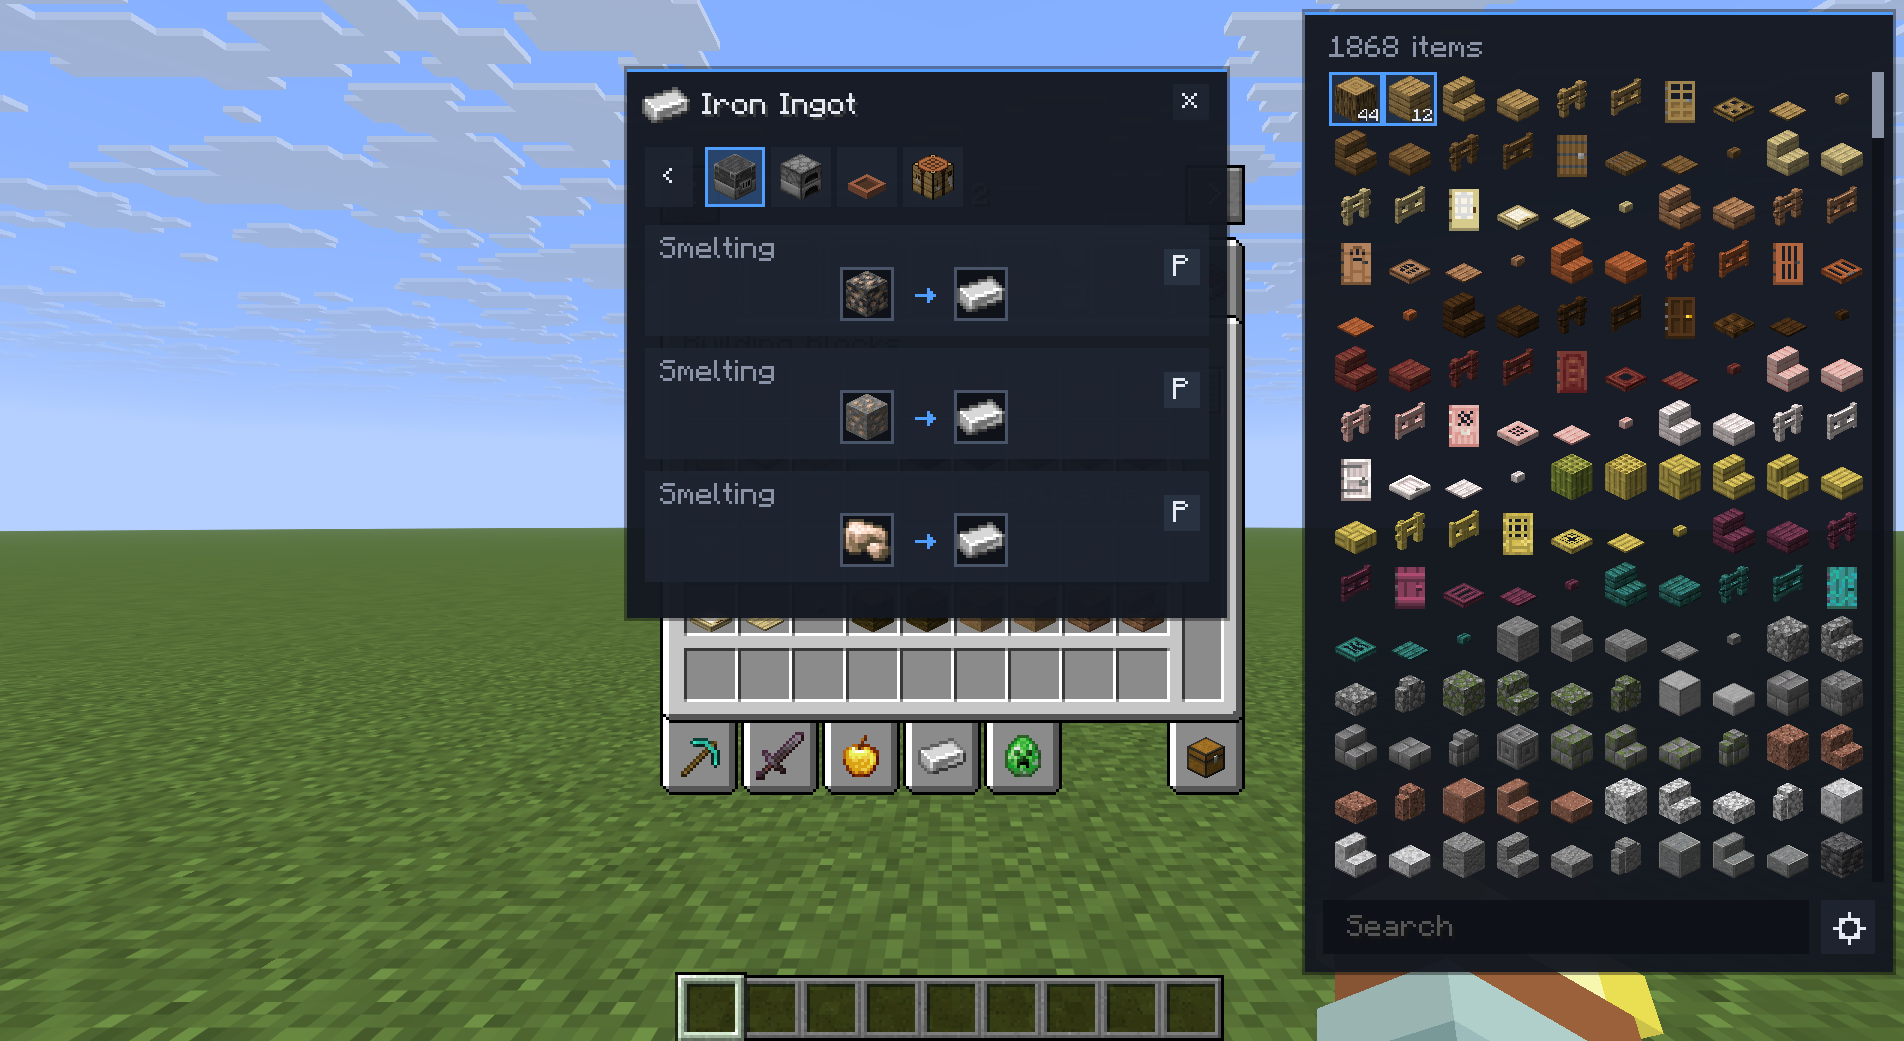
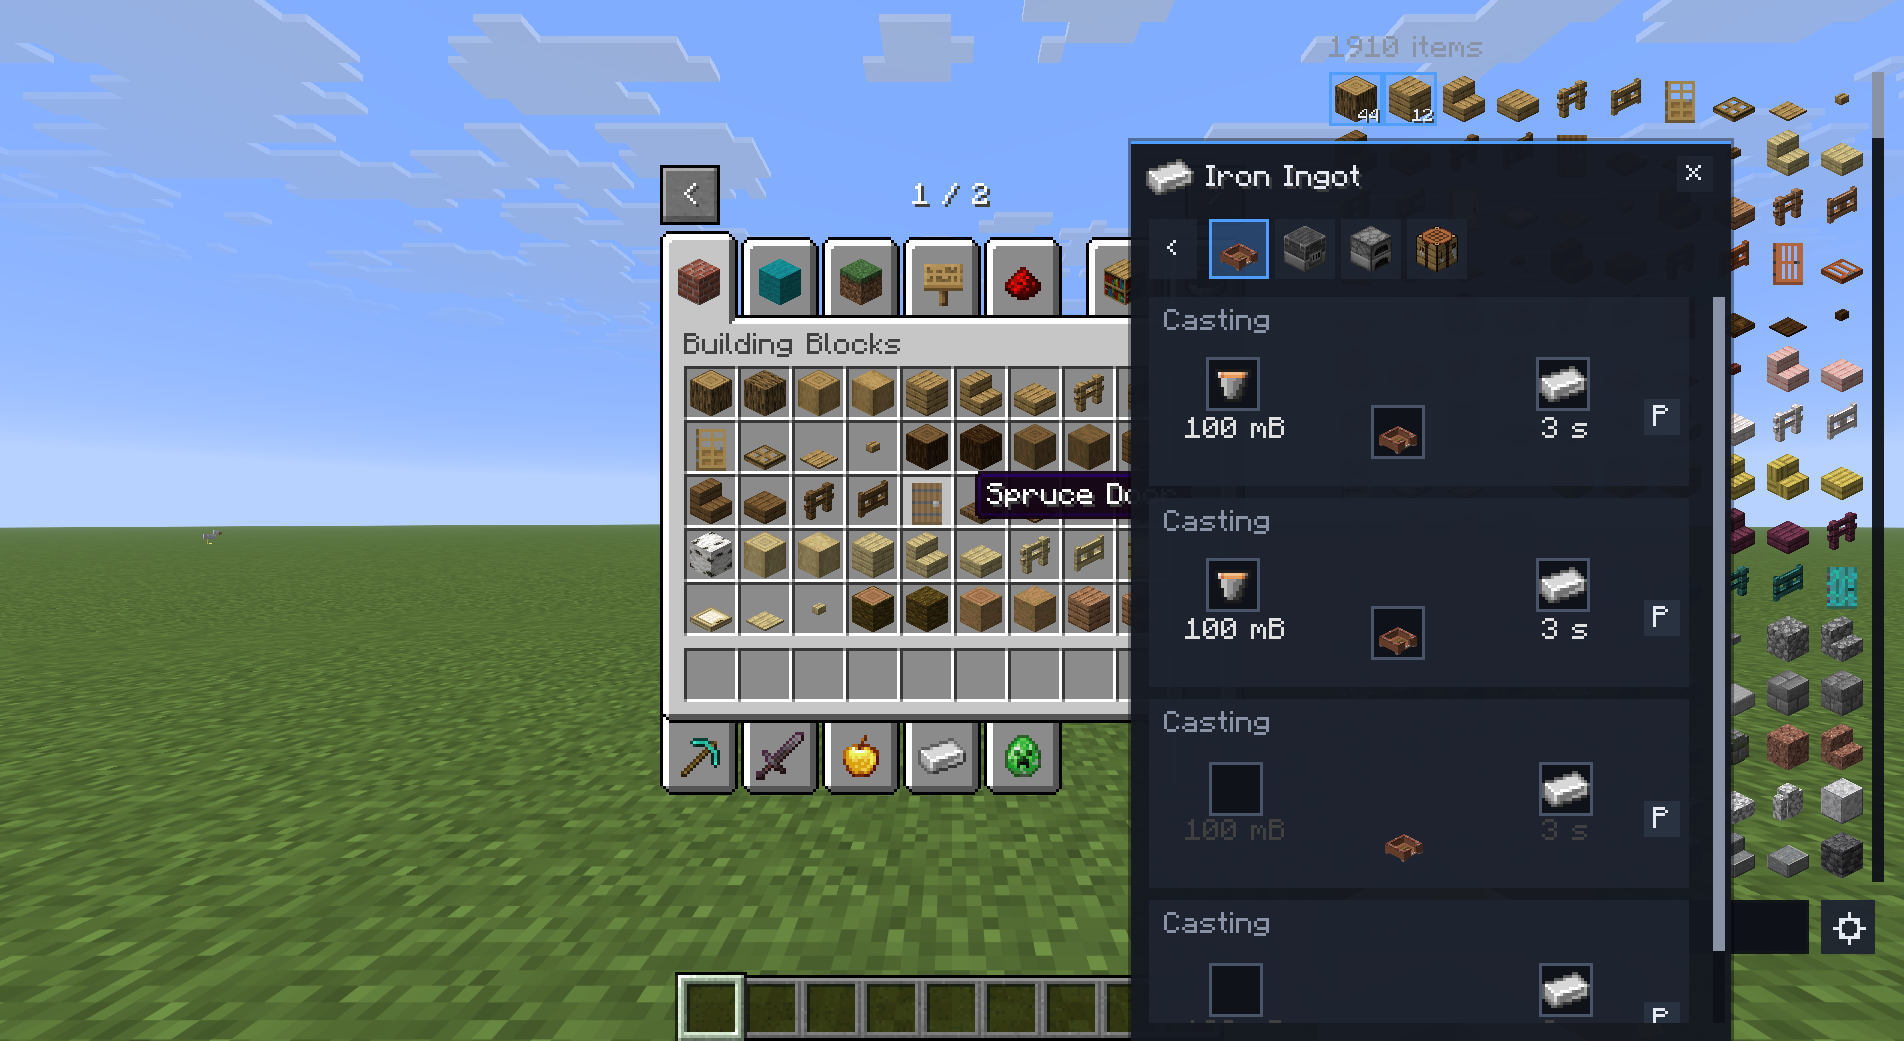
BEI shows fluids as their bucket with the amount; viewer tour frames for brine and molten copper

diff --git a/version-26.2/src/main/java/com/itmecasey/primamateria/compat/PrimaBeiPlugin.java b/version-26.2/src/main/java/com/itmecasey/primamateria/compat/PrimaBeiPlugin.java
@@ -54,33 +54,8 @@ public class PrimaBeiPlugin implements IBeiPlugin {
         }
 
         private void swatch(GuiGraphicsExtractor g, Cards.Entry entry, Cards.Spot spot) {
-            if (entry.kind() == Cards.Kind.FLUID) {
-                // BEI slots hold items only, so a fluid is painted as its still texture
-                FluidSprites.draw(g, entry.id(), spot.x() + 1, spot.y() + 1);
-            }
-        }
-
-        @Override
-        public List<Component> tooltip(CustomRecipe recipe, int mx, int my) {
-            Cards.Card card = card(recipe);
-            Cards.Layout layout = Cards.layout(card);
-            for (int i = 0; i < card.inputs().size(); i++) {
-                Cards.Entry e = card.inputs().get(i);
-                if (e.kind() == Cards.Kind.FLUID && over(layout.inputs().get(i), mx, my)) {
-                    return FluidSprites.tooltip(e.id(), e.count());
-                }
-            }
-            for (int i = 0; i < card.outputs().size(); i++) {
-                Cards.Entry e = card.outputs().get(i).entry();
-                if (e.kind() == Cards.Kind.FLUID && over(layout.outputs().get(i), mx, my)) {
-                    return FluidSprites.tooltip(e.id(), e.count());
-                }
-            }
-            return List.of();
-        }
-
-        private static boolean over(Cards.Spot spot, int mx, int my) {
-            return mx >= spot.x() && mx < spot.x() + Cards.SLOT && my >= spot.y() && my < spot.y() + Cards.SLOT;
+            // BEI slots hold items only (its API has no fluid ingredient), so a fluid is its bucket item in the slot and its amount
+            // under it; nothing is painted over the slot
         }
     };
 
@@ -128,7 +103,7 @@ public class PrimaBeiPlugin implements IBeiPlugin {
             RecipeCategory category = category(card.category());
             CustomRecipe.Builder b = CustomRecipe.builder().id(card.id()).data(card);
             for (Cards.Entry in : card.inputs()) {
-                List<ItemStack> items = in.kind() == Cards.Kind.FLUID ? List.of() : Stacks.itemsOf(in);
+                List<ItemStack> items = Stacks.itemsOf(in);
                 if (items.isEmpty()) {
                     b.emptyInput();
                 } else {
@@ -144,7 +119,7 @@ public class PrimaBeiPlugin implements IBeiPlugin {
             }
             boolean any = false;
             for (Cards.Output out : card.outputs()) {
-                List<ItemStack> items = out.entry().kind() == Cards.Kind.FLUID ? List.of() : Stacks.itemsOf(out.entry());
+                List<ItemStack> items = Stacks.itemsOf(out.entry());
                 if (items.isEmpty()) {
                     b.output(ItemStack.EMPTY);
                 } else {

diff --git a/version-26.3/src/main/java/com/itmecasey/primamateria/compat/PrimaBeiPlugin.java b/version-26.3/src/main/java/com/itmecasey/primamateria/compat/PrimaBeiPlugin.java
@@ -54,33 +54,8 @@ public class PrimaBeiPlugin implements IBeiPlugin {
         }
 
         private void swatch(GuiGraphicsExtractor g, Cards.Entry entry, Cards.Spot spot) {
-            if (entry.kind() == Cards.Kind.FLUID) {
-                // BEI slots hold items only, so a fluid is painted as its still texture
-                FluidSprites.draw(g, entry.id(), spot.x() + 1, spot.y() + 1);
-            }
-        }
-
-        @Override
-        public List<Component> tooltip(CustomRecipe recipe, int mx, int my) {
-            Cards.Card card = card(recipe);
-            Cards.Layout layout = Cards.layout(card);
-            for (int i = 0; i < card.inputs().size(); i++) {
-                Cards.Entry e = card.inputs().get(i);
-                if (e.kind() == Cards.Kind.FLUID && over(layout.inputs().get(i), mx, my)) {
-                    return FluidSprites.tooltip(e.id(), e.count());
-                }
-            }
-            for (int i = 0; i < card.outputs().size(); i++) {
-                Cards.Entry e = card.outputs().get(i).entry();
-                if (e.kind() == Cards.Kind.FLUID && over(layout.outputs().get(i), mx, my)) {
-                    return FluidSprites.tooltip(e.id(), e.count());
-                }
-            }
-            return List.of();
-        }
-
-        private static boolean over(Cards.Spot spot, int mx, int my) {
-            return mx >= spot.x() && mx < spot.x() + Cards.SLOT && my >= spot.y() && my < spot.y() + Cards.SLOT;
+            // BEI slots hold items only (its API has no fluid ingredient), so a fluid is its bucket item in the slot and its amount
+            // under it; nothing is painted over the slot
         }
     };
 
@@ -128,7 +103,7 @@ public class PrimaBeiPlugin implements IBeiPlugin {
             RecipeCategory category = category(card.category());
             CustomRecipe.Builder b = CustomRecipe.builder().id(card.id()).data(card);
             for (Cards.Entry in : card.inputs()) {
-                List<ItemStack> items = in.kind() == Cards.Kind.FLUID ? List.of() : Stacks.itemsOf(in);
+                List<ItemStack> items = Stacks.itemsOf(in);
                 if (items.isEmpty()) {
                     b.emptyInput();
                 } else {
@@ -144,7 +119,7 @@ public class PrimaBeiPlugin implements IBeiPlugin {
             }
             boolean any = false;
             for (Cards.Output out : card.outputs()) {
-                List<ItemStack> items = out.entry().kind() == Cards.Kind.FLUID ? List.of() : Stacks.itemsOf(out.entry());
+                List<ItemStack> items = Stacks.itemsOf(out.entry());
                 if (items.isEmpty()) {
                     b.output(ItemStack.EMPTY);
                 } else {

diff --git a/version-26.2/src/dev/java/com/itmecasey/primamateria/dev/IntegrationTour.java b/version-26.2/src/dev/java/com/itmecasey/primamateria/dev/IntegrationTour.java
@@ -201,6 +201,8 @@ public final class IntegrationTour {
         frame("melting_iron_dust", "primamateria:iron_dust", true);
         frame("casting_iron_ingot", "minecraft:iron_ingot", false);
         frame("crushing_plant_fiber", "primamateria:plant_fiber", false);
+        frame("steeping_salt_brine", "primamateria:salt_dust", true);
+        frame("melting_copper_dust", "primamateria:copper_dust", true);
         then(20, () -> {
         });
     }

diff --git a/version-26.3/src/dev/java/com/itmecasey/primamateria/dev/IntegrationTour.java b/version-26.3/src/dev/java/com/itmecasey/primamateria/dev/IntegrationTour.java
@@ -201,6 +201,8 @@ public final class IntegrationTour {
         frame("melting_iron_dust", "primamateria:iron_dust", true);
         frame("casting_iron_ingot", "minecraft:iron_ingot", false);
         frame("crushing_plant_fiber", "primamateria:plant_fiber", false);
+        frame("steeping_salt_brine", "primamateria:salt_dust", true);
+        frame("melting_copper_dust", "primamateria:copper_dust", true);
         then(20, () -> {
         });
     }
